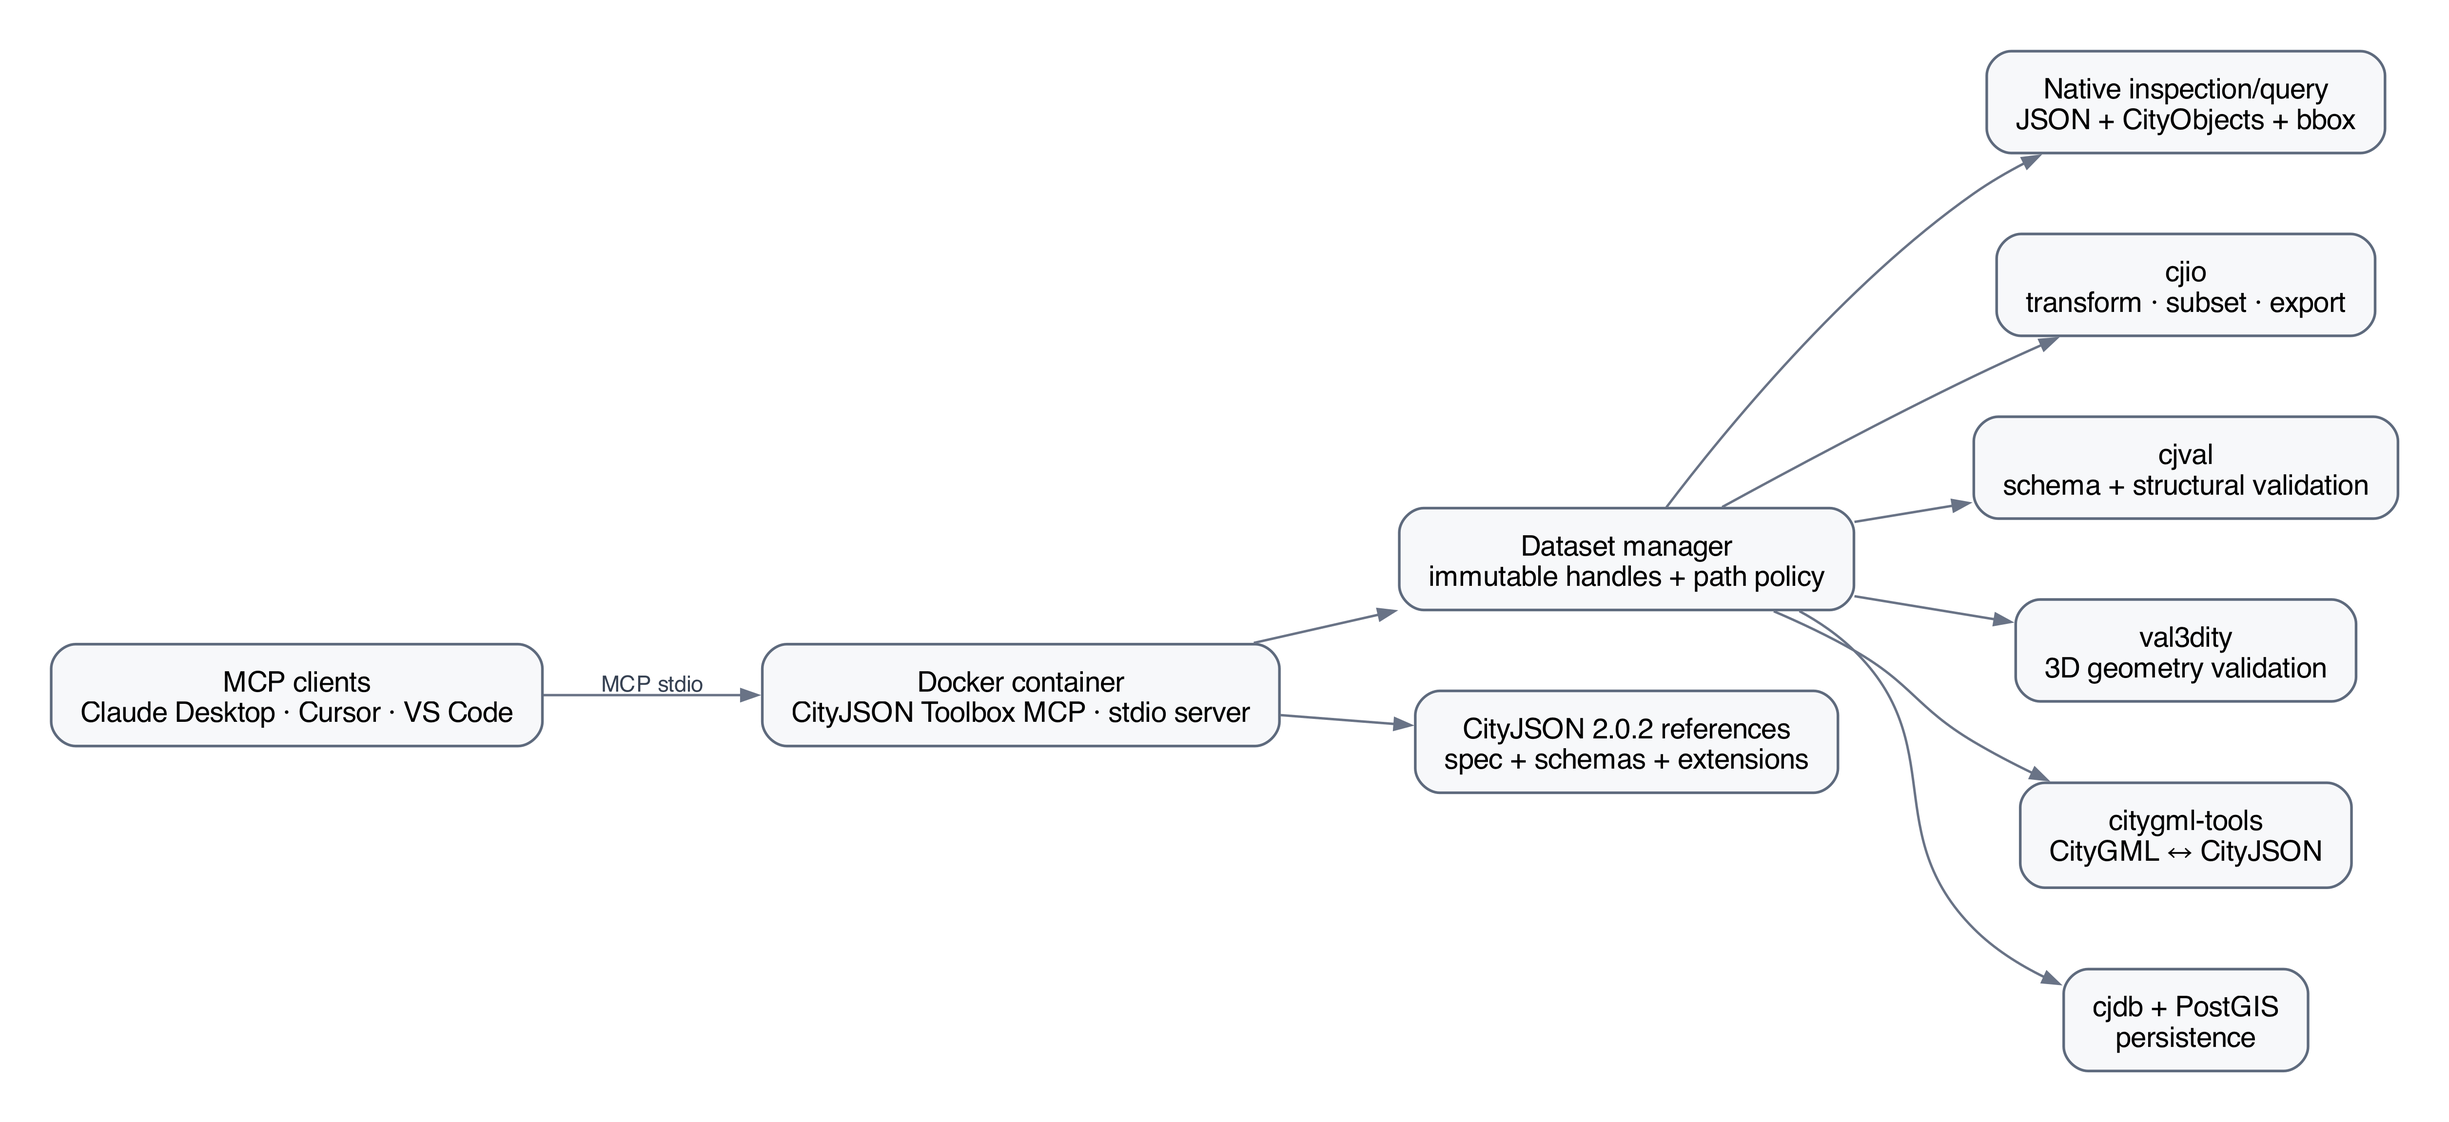
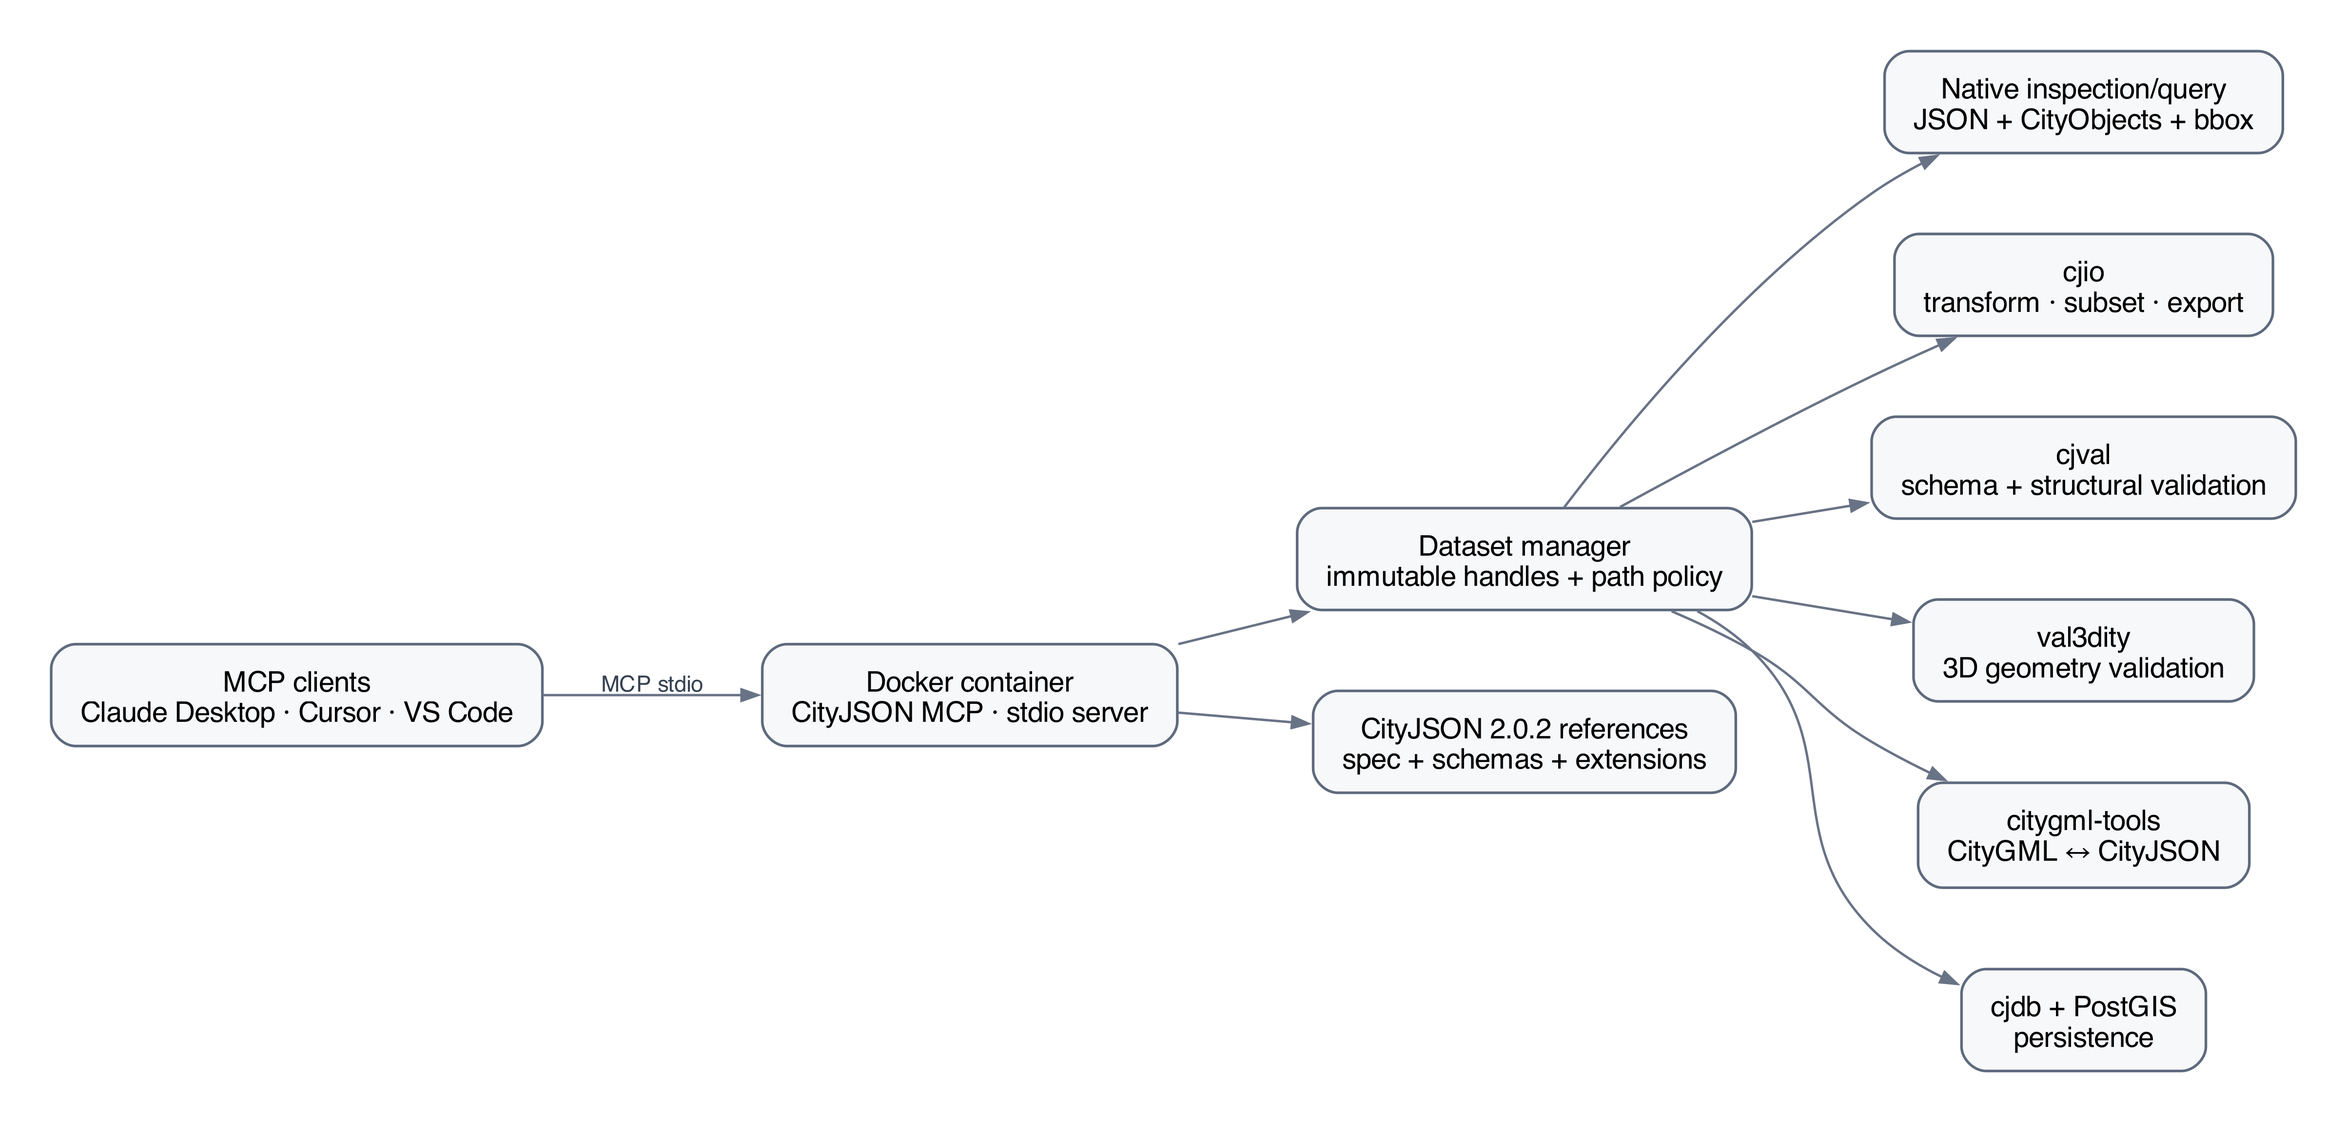
ci: publish multi-platform Docker image

diff --git a/README.md b/README.md
@@ -20,7 +20,7 @@ The server exposes **35 MCP tools**. Transformations use **immutable dataset han
 ```mermaid
 flowchart LR
   CLIENT["MCP clients<br/>Claude Desktop · Cursor · VS Code"]
-  SERVER["Docker container<br/>CityJSON Toolbox MCP · stdio server"]
+  SERVER["Docker container<br/>CityJSON MCP · stdio server"]
   CORE["Dataset manager<br/>immutable handles + path policy"]
   NATIVE["Native inspection/query<br/>JSON + CityObjects + bbox"]
   CJIO["cjio<br/>transform · subset · export"]
@@ -75,7 +75,7 @@ flowchart TD
 
 A user can say, for example:
 
-> Open `/data/rotterdam.city.json`, validate both its CityJSON structure and 3D geometry, keep only Buildings inside bbox `[90000, 435000, 91000, 436000]`, reproject the result to EPSG:28992, clean duplicate/orphan vertices, validate the result again, and save it as `/data/rotterdam-subset.city.json`.
+> Open `/input/rotterdam.city.json`, validate both its CityJSON structure and 3D geometry, keep only Buildings inside bbox `[90000, 435000, 91000, 436000]`, reproject the result to EPSG:28992, clean duplicate and orphan vertices, validate the result again, and return it with `cityjson_download`.
 
 An MCP client can resolve that request approximately as:
 
@@ -95,13 +95,23 @@ Each transformation returns a new `dataset_id`, so intermediate states remain av
 
 ## Recommended: complete Docker runtime
 
-The end-user runtime puts the MCP server and all five backends in one image. Install Docker Desktop, then pull the published image from Docker Hub:
+The Docker image contains the MCP server and all five backends. Install Docker Desktop, then pull the image from Docker Hub:
 
 ```bash
 docker pull yarroudh/cityjson-mcp:latest
 ```
 
-Configure your MCP client to launch the image over stdio:
+Confirm that every backend is present:
+
+```bash
+docker run --rm --entrypoint node yarroudh/cityjson-mcp:latest /app/scripts/doctor.mjs
+```
+
+The output should report `OK` for `cjio`, `cjval`, `val3dity`, `citygml-tools`, and `cjdb`.
+
+### Choose how files enter the container
+
+For small files, the client can read the attachment and send its JSON text to `cityjson_upload`:
 
 ```json
 {
@@ -114,17 +124,44 @@ Configure your MCP client to launch the image over stdio:
 }
 ```
 
-Attach a CityJSON file and ask the assistant to inspect, validate, or transform it. The assistant imports it with `cityjson_upload` and uses the returned `dataset_id` for subsequent operations. This does not require a mounted data directory or a `CITYJSON_MCP_ALLOWED_ROOTS` setting.
+This method passes the complete document through an MCP argument. Although the server accepts uploads up to 25 MiB by default, the client or model can have a much smaller practical message limit. Do not use this method for large CityJSON models.
+
+For large files, mount their host directory. Replace `/absolute/path/to/cityjson-files` with a real absolute path:
+
+```json
+{
+  "mcpServers": {
+    "cityjson": {
+      "command": "docker",
+      "args": [
+        "run",
+        "--rm",
+        "-i",
+        "--mount",
+        "type=bind,source=/absolute/path/to/cityjson-files,target=/input,readonly",
+        "--env",
+        "CITYJSON_MCP_ALLOWED_ROOTS=/input:/data",
+        "yarroudh/cityjson-mcp:latest"
+      ]
+    }
+  }
+}
+```
+
+The host directory appears as `/input` inside Docker. For example, `/absolute/path/to/cityjson-files/model.city.json` becomes `/input/model.city.json`. The input mount cannot be modified. Derived datasets and reports go to Docker's managed `/data` workspace.
+
+Chat attachment paths such as `/mnt/user-data/...` and `/home/claude/...` belong to the client's private environment. They do not exist inside the MCP container and must never be passed to `cityjson_open`.
 
 The image includes `cjio`, `cjval`, `val3dity`, `citygml-tools`, and `cjdb`; no host Python, Rust, Java, or geospatial libraries are required. Docker automatically pulls newer image layers when needed after you run `docker pull yarroudh/cityjson-mcp:latest` again.
 
-To build the image from source instead, build the two slow compiler stages first so Docker can cache them, then build the remaining image:
+To build from source, cache the two slow compiler stages before building the remaining image:
 
 ```bash
-docker build -f docker/Dockerfile --target val3dity-builder -t cityjson-mcp-val3dity-builder .
-docker build -f docker/Dockerfile --target cjval-builder -t cityjson-mcp-cjval-builder .
-docker build -f docker/Dockerfile -t cityjson-mcp .
-docker run --rm --entrypoint node cityjson-mcp /app/scripts/doctor.mjs
+npm install
+npm run docker:cache:val3dity
+npm run docker:cache:cjval
+npm run docker:build
+npm run docker:doctor
 ```
 
 If a later layer fails, rerunning the final command reuses the completed `val3dity` and `cjval` layers instead of compiling them from scratch.
@@ -263,16 +300,16 @@ Then configure one of the MCP clients below. The supplied templates launch the c
 
 # Add it to Claude Desktop
 
-Claude Desktop local MCP configurations use an `mcpServers` object. The supplied template launches the locally built image.
+Claude Desktop local MCP configurations use an `mcpServers` object. The supplied template launches the published image without a host mount. Add the mount shown in the quick start when working with large files.
 
 The Claude Desktop template is in [`config/claude-desktop.json`](config/claude-desktop.json).
 
 ```json
 {
   "mcpServers": {
-    "cityjson-toolbox": {
+    "cityjson": {
       "command": "docker",
-      "args": ["run", "--rm", "-i", "cityjson-mcp"]
+      "args": ["run", "--rm", "-i", "yarroudh/cityjson-mcp:latest"]
     }
   }
 }
@@ -284,6 +321,16 @@ Typical configuration locations for Claude Desktop local servers are:
 - Windows: `%APPDATA%\Claude\claude_desktop_config.json`
 
 Merge the template into the client configuration, then fully quit and reopen Claude Desktop. The `config/` directory contains templates; Claude does not read it automatically.
+
+In a normal Claude chat, click **+**, open **Connectors**, enable **cityjson**, and allow its tools under **Tool access**. The connector is available only to chats where it is enabled. `/input` exists inside the connector container, not inside Claude's code environment.
+
+To verify tool use on macOS:
+
+```bash
+tail -f "$HOME/Library/Logs/Claude/mcp-server-cityjson.log"
+```
+
+Successful calls appear as `method="tools/call"` followed by a server result. Press `Ctrl+C` to stop watching.
 
 > Claude Desktop also supports packaged MCP Bundles/Extensions. This repository is delivered as source ZIP so it remains transparent and editable; the direct stdio configuration above is the simplest development setup.
 
@@ -326,10 +373,10 @@ Example:
 ```json
 {
   "mcpServers": {
-    "cityjson-toolbox": {
+    "cityjson": {
       "type": "stdio",
       "command": "docker",
-      "args": ["run", "--rm", "-i", "cityjson-mcp"]
+      "args": ["run", "--rm", "-i", "yarroudh/cityjson-mcp:latest"]
     }
   }
 }
@@ -362,10 +409,10 @@ Example:
 ```json
 {
   "servers": {
-    "cityjson-toolbox": {
+    "cityjson": {
       "type": "stdio",
       "command": "docker",
-      "args": ["run", "--rm", "-i", "cityjson-mcp"]
+      "args": ["run", "--rm", "-i", "yarroudh/cityjson-mcp:latest"]
     }
   }
 }
@@ -383,17 +430,23 @@ flowchart LR
   CLAUDECODE["Claude Code<br/>.mcp.json"]
   CURSOR["Cursor<br/>.cursor/mcp.json"]
   VSCODE["VS Code<br/>.vscode/mcp.json"]
-  DOCKER["Local Docker image<br/>MCP stdio"]
-  UPLOAD["cityjson_upload<br/>managed workspace"]
+  DOCKER["CityJSON MCP Docker image<br/>MCP stdio"]
+  INPUT["Mounted files<br/>/input"]
+  UPLOAD["Small JSON content<br/>cityjson_upload"]
+  WS["Managed workspace<br/>/data"]
   TOOLS["Bundled backends<br/>cjio · cjval · val3dity · citygml-tools · cjdb"]
 
   CLAUDE --> DOCKER
   CLAUDECODE --> DOCKER
   CURSOR --> DOCKER
   VSCODE --> DOCKER
-  DOCKER --> UPLOAD
+  INPUT --> DOCKER
+  UPLOAD --> DOCKER
+  DOCKER --> WS
   DOCKER --> TOOLS
 ```
+
+[Download PNG — high resolution](diagrams/client-setup.png)
 
 ---
 
@@ -416,13 +469,15 @@ Call this before tools requiring `dataset_id`:
 
 ```json
 {
-  "source": "/data/amsterdam.city.json"
+  "source": "/input/amsterdam.city.json"
 }
 ```
 
+`/input` is the recommended read only host mount. Paths from a chat attachment or the client's code environment are not visible inside Docker.
+
 ### `cityjson_upload`
 
-Use this when an attached CityJSON file is available to the client as content but not as a path inside the Docker `/data` mount:
+Use this when a small attached CityJSON file is available to the client as content but not as a path inside Docker:
 
 ```json
 {
@@ -431,7 +486,7 @@ Use this when an attached CityJSON file is available to the client as content bu
 }
 ```
 
-The content is structurally checked before it is written to the managed workspace. Uploads default to a 25 MiB limit; configure `CITYJSON_MCP_MAX_UPLOAD_BYTES` for a different limit. Mounted `/data` files remain preferable for large models.
+The content is structurally checked before it is written to the managed workspace. Uploads default to a 25 MiB server limit, but client message limits can be much smaller. Use a mounted `/input` directory for large models.
 
 ### `cityjson_download`
 
@@ -644,7 +699,7 @@ Example CityGML → CityJSON:
 
 ```json
 {
-  "source": "/data/model.gml",
+  "source": "/input/model.gml",
   "json_lines": false
 }
 ```
@@ -766,41 +821,41 @@ A future adapter could delegate `cityjson_spec_read` to `cj-mcp` without changin
 
 # Recommended prompts / recipes
 
-These prompts are written so an MCP-capable agent has enough intent to choose the correct tools.
+These prompts assume the host file directory is mounted at `/input`. They explicitly prevent the client from checking `/input` in its own code environment.
 
 ### Inspect before modifying
 
-> Open `/data/tile.city.json`. Tell me the CityJSON version, CRS, CityObject counts by type, LoDs, attribute names, and extensions. Do not modify anything.
+> Call `cityjson_open` with `source` set to `/input/tile.city.json`. Do not use bash, Python, the code environment, attachment tools, or connector search. Tell me the CityJSON version, CRS, CityObject counts by type, LoDs, attribute names, and extensions. Do not modify anything.
 
 Expected tools: `cityjson_open` → `cityjson_info`.
 
 ### Validate and diagnose
 
-> Validate `/data/tile.city.json` structurally and geometrically. Separate cjval warnings from errors, group val3dity errors by error code, identify the affected CityObject IDs, and consult the CityJSON specification when an error is about a CityJSON structural rule.
+> Open `/input/tile.city.json` with `cityjson_open`, then validate it with `cjval` and `val3dity`. Use only the CityJSON connector tools. Separate cjval warnings from errors, group val3dity errors by error code, identify the affected CityObject IDs, and consult the CityJSON specification when an error is about a CityJSON structural rule. If a validation report exceeds the tool output limit, create nonoverlapping spatial subsets, validate each subset, and aggregate the counts without double counting. Do not modify the original file.
 
 Expected tools: `cityjson_open` → `cityjson_validate` → optionally `cityjson_get_object` / `cityjson_spec_read`.
 
 ### Safe cleanup loop
 
-> Open `/data/tile.city.json`, run structural validation, and if the only structural warnings are duplicate/unused vertices, create a cleaned derived dataset, re-run full validation, and save the validated result to `/data/tile-clean.city.json`. Never overwrite the original.
+> Open `/input/tile.city.json`, run structural validation, and if the only structural warnings are duplicate or unused vertices, create a cleaned derived dataset, run full validation again, and return the result with `cityjson_download` as `tile-clean.city.json`. Never overwrite the original.
 
 Expected tools: `cityjson_open` → `cityjson_validate_schema` → `cityjson_clean_vertices` → `cityjson_validate` → `cityjson_save`.
 
 ### Spatial extract
 
-> From `/data/city.city.json`, extract only Building and BuildingPart objects intersecting bbox `[85000, 446000, 86000, 447000]`, keep LoD 2.2, reproject to EPSG:28992, validate the result, then save it as `/data/extract.city.json`.
+> From `/input/city.city.json`, extract only Building and BuildingPart objects intersecting bbox `[85000, 446000, 86000, 447000]`, keep LoD 2.2, reproject to EPSG:28992, validate the result, then return it with `cityjson_download` as `extract.city.json`.
 
 Expected tools: `cityjson_open` → `cityjson_subset` → `cityjson_filter_lod` → `cityjson_reproject` → `cityjson_validate` → `cityjson_save`.
 
 ### CityGML interoperability
 
-> Convert `/data/source.gml` to CityJSON, inspect the resulting object types and LoDs, validate it with cjval and val3dity, and report any information that may have been lost or normalized during conversion.
+> Convert `/input/source.gml` to CityJSON, inspect the resulting object types and LoDs, validate it with cjval and val3dity, and report any information that may have been lost or normalized during conversion.
 
 Expected tools: `citygml_to_cityjson` → `cityjson_info` → `cityjson_validate`, plus specification lookup when useful.
 
 ### Database workflow
 
-> Open `/data/municipality.city.json`, validate it, then import it into PostgreSQL host `localhost`, database `cityjson`, schema `municipality`. Add an attribute index for `yearOfConstruction`. Use the database password from the MCP process environment.
+> Open `/input/municipality.city.json`, validate it, then import it into PostgreSQL host `localhost`, database `cityjson`, schema `municipality`. Add an attribute index for `yearOfConstruction`. Use the database password from the MCP process environment.
 
 Expected tools: `cityjson_open` → `cityjson_validate_schema` → `cityjson_db_import`.
 
@@ -881,6 +936,24 @@ docker build -f docker/Dockerfile -t cityjson-mcp .
 ```
 
 Run `docker run --rm --entrypoint node cityjson-mcp /app/scripts/doctor.mjs` after a local build to verify all five executables.
+
+## Publish from GitHub Actions
+
+The workflow in [`.github/workflows/docker-publish.yml`](.github/workflows/docker-publish.yml) builds `linux/amd64` and `linux/arm64` images on native runners, creates one multiplatform manifest, and pushes it to `yarroudh/cityjson-mcp`.
+
+Configure the GitHub repository under **Settings → Secrets and variables → Actions**:
+
+- Variable `DOCKERHUB_USERNAME`: `yarroudh`
+- Secret `DOCKERHUB_TOKEN`: a Docker Hub access token with permission to write this repository
+
+Run the workflow manually from the **Actions** tab, or publish a version tag:
+
+```bash
+git tag v0.1.0
+git push origin v0.1.0
+```
+
+A version tag publishes `0.1.0`, `0.1`, and `latest`. BuildKit cache is retained for later runs, so unchanged `val3dity` and `cjval` layers do not need to compile again.
 
 Development PostGIS:
 

diff --git a/docker/README.md b/docker/README.md
@@ -1,15 +1,15 @@
-# Docker notes
+# Docker
 
 `Dockerfile` builds the complete MCP runtime with `cjio`, `cjdb`, `cjval`, `val3dity`, and `citygml-tools`. Users only need Docker Desktop; Python, Rust, Java, CGAL, and the backend CLIs stay inside the image.
 
-Build:
+Pull the published image:
 
 ```bash
-docker build -f docker/Dockerfile -t cityjson-toolbox-mcp .
-npm run docker:doctor
+docker pull yarroudh/cityjson-mcp:latest
+docker run --rm --entrypoint node yarroudh/cityjson-mcp:latest /app/scripts/doctor.mjs
 ```
 
-To ensure the two slow compiler stages are safely cached before the rest of the image is attempted:
+For a source build, cache the two slow compiler stages before building the rest:
 
 ```bash
 npm run docker:cache:val3dity
@@ -17,34 +17,45 @@ npm run docker:cache:cjval
 npm run docker:build
 ```
 
-The full build also has a cache barrier: Python, Java, and application layers do not start until both compiler stages have completed and been committed to Docker's cache.
+The full build has a cache barrier. Python, Java, and application layers do not start until both compiler stages have completed and entered Docker's cache. If a later layer fails, rerun `npm run docker:build`; Docker reuses the compiler layers.
 
 Both compiler stages use four jobs by default. Override either value when needed:
 
 ```bash
 docker build -f docker/Dockerfile --target val3dity-builder \
   --build-arg VAL3DITY_BUILD_JOBS=6 \
-  -t cityjson-toolbox-val3dity-builder .
+  -t cityjson-mcp-val3dity-builder .
 
 docker build -f docker/Dockerfile --target cjval-builder \
   --build-arg CJVAL_BUILD_JOBS=6 \
-  -t cityjson-toolbox-cjval-builder .
+  -t cityjson-mcp-cjval-builder .
 ```
 
-Claude Desktop can launch it directly over stdio (replace the host data path):
+Claude Desktop can launch the published image over stdio. Replace the source path with the absolute directory containing the CityJSON files:
 
 ```json
 {
   "mcpServers": {
     "cityjson": {
       "command": "docker",
-      "args": ["run", "--rm", "-i", "-v", "/absolute/path/to/citydata:/data", "cityjson-toolbox-mcp"]
+      "args": [
+        "run",
+        "--rm",
+        "-i",
+        "--mount",
+        "type=bind,source=/absolute/path/to/cityjson-files,target=/input,readonly",
+        "--env",
+        "CITYJSON_MCP_ALLOWED_ROOTS=/input:/data",
+        "yarroudh/cityjson-mcp:latest"
+      ]
     }
   }
 }
 ```
 
-Use `/data/...` paths in MCP calls.
+Use `/input/...` paths with `cityjson_open`. The mount is read only. Derived datasets and reports are written to `/data` inside Docker. Use `cityjson_download` to return a result to the client.
+
+Small attachments can instead use `cityjson_upload`, which sends the complete JSON document through an MCP argument. Large files should use the mount because client message limits can be much smaller than the server's upload limit. Chat paths such as `/mnt/user-data/...` do not exist inside this container.
 
 A local PostGIS development database for `cjdb` is available with:
 
